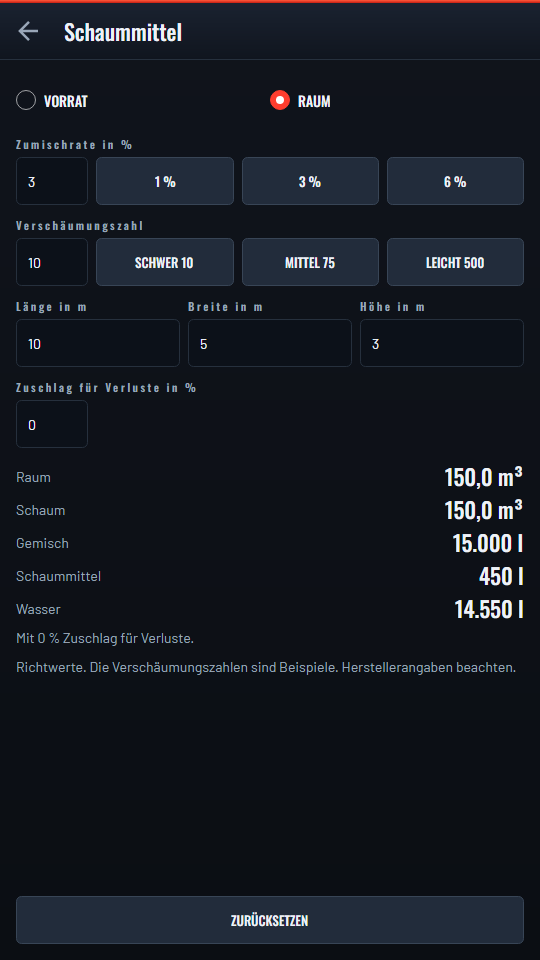
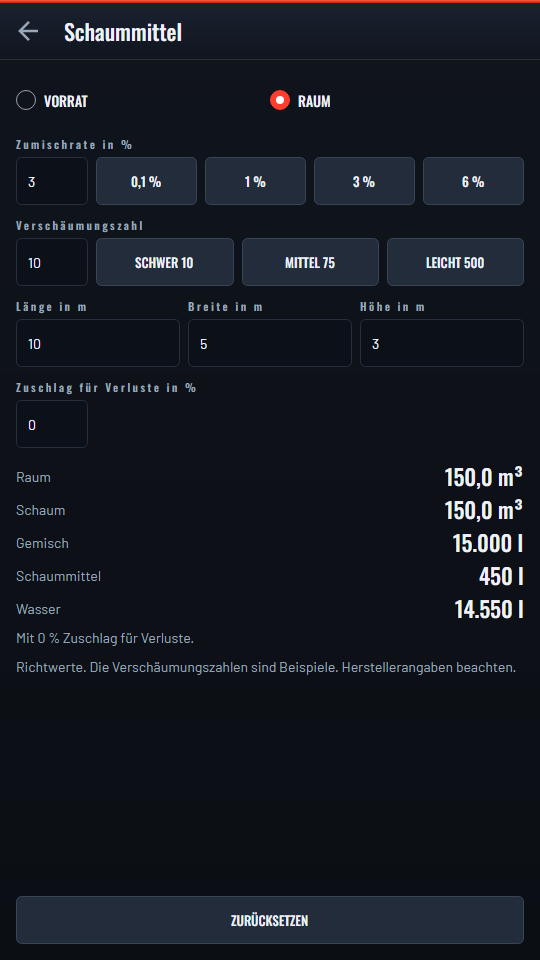
feat(schaummittel): add a 0,1 % Zumischrate preset
Adds a fourth preset button beside the Zumischrate field, first in the
row so the presets run from smallest to largest.

diff --git a/tests/Helfer.Acceptance.Tests/DemoFlowRenderTests.cs b/tests/Helfer.Acceptance.Tests/DemoFlowRenderTests.cs
@@ -184,7 +184,23 @@ public class DemoFlowRenderTests
         Assert.Equal(["Von 0,1 bis 50 % möglich."], errors);
     }
 
+    [AvaloniaFact]
+    public void The_smallest_schaummittel_preset_sets_a_valid_zumischrate()
+    {
+        var phone = new PhoneRender();
+        var page = OpenSchaummittel(phone);
+        var button = phone.Window.GetVisualDescendants().OfType<Button>().Single(b => Equals(b.Content, "0,1 %"));
+
+        Assert.NotNull(button.Command);
+        button.Command.Execute(button.CommandParameter);
+        PhoneRender.Settle();
+
+        Assert.Equal("0,1", page.Zumischrate.Text);
+        Assert.Equal(0.1m, page.Zumischrate.Value);
+    }
+
     [AvaloniaTheory]
+    [InlineData("Zumischrate in %", "0,1 %")]
     [InlineData("Zumischrate in %", "1 %")]
     [InlineData("Verschäumungszahl", "LEICHT 500")]
     public void A_schaummittel_preset_sits_beside_its_field_at_glove_size(string field, string preset)

diff --git a/changelog.d/+schaummittel-zumischrate-0-1.added.md b/changelog.d/+schaummittel-zumischrate-0-1.added.md
@@ -1,0 +1,1 @@
+The Schaummittel-Rechner offers a preset button for a Zumischrate of 0,1 %.
